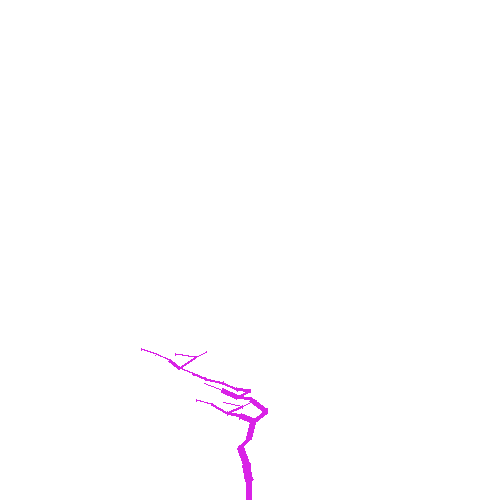
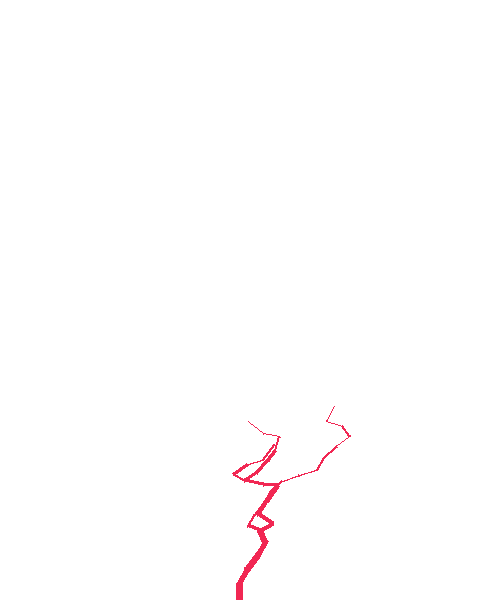
massively updated trunk splitting to add possible types and control over when, where, and how much

diff --git a/auto_draw_tool.py b/auto_draw_tool.py
@@ -5,8 +5,8 @@ import math
 import sys
 
 
-pic_width = 500
-pic_height = 500
+pic_width = 480
+pic_height = 600
 white = (255, 255, 255)
 choco = (210,105,30)
 sienna = (160,82,45)
@@ -58,12 +58,23 @@ def gen_color():
 
 
 # return list of ints that describe continuances or splits on bracnhes/trunks
-def gen_split_list(leftover_trunks):
+def gen_split_list(leftover_trunks,reach_type):
 	splits = []
 	total = 0
 	while total <= leftover_trunks:
 		if total != 0:
-			addition = rand.randint(1,2)
+			# we want more likely 1 for total less than leftover_trunks...
+			# so 1/(left_over - total) goes from 1/L to ... 1 (then infin)..
+			# MAKE THIS SOME HOW OPTIONAL ---> SO BRANCHES CAN BE HIGH ON TREE, FOR A TREE TYPE!!!!
+			# when off, just randint(1,2) once total != 0
+			# when on, first split continues for a bit to make it more "tree-like"
+			if total < leftover_trunks and not reach_type:
+				if rand.random() < .1+1/math.sqrt(leftover_trunks - total):
+					addition = rand.randint(1,2)
+				else:	
+					addition = 1
+			else:
+				addition = rand.randint(1,2)
 		elif total == 0:
 			addition = 2
 		splits.append(addition)
@@ -76,6 +87,12 @@ def gen_split_list(leftover_trunks):
 def gen_trunk(trunk_angle_max,trunk_angle_min,trunk_base_width,trunk_mag,trunk_color,id_index,last_trunk,is_used=True):
 	length = trunk_mag*rand.uniform(.6,1)
 	angle = rand.uniform(trunk_angle_min,trunk_angle_max)
+	# above is naive, we want to avoid straight up mooostly, so bend distribution towards edges, using min and max
+	# but, only do this is pi/2 included in range of max and min! (so we can use this func to do semi specific angle trunk)
+	if math.pi/2 < trunk_angle_max and math.pi/2 > trunk_angle_min:	
+		angle1 = rand.uniform(trunk_angle_min,5*(math.pi)/12)
+		angle2 = rand.uniform(7*(math.pi)/12,trunk_angle_max)
+		angle = rand.choice([angle1,angle2])
 	#first trunk always points straight up
 	if id_index == 0:
 		angle = math.pi/2
@@ -135,10 +152,12 @@ def gen_rules():
 	trunk_num_max = 50
 	trunk_mag = 20
 	trunk_base_width = 1
-	trunk_angle_min = math.pi/4
-	trunk_angle_max = 3*(math.pi/4)
+	trunk_angle_min = math.pi/6 #math.pi/4
+	trunk_angle_max = 5*(math.pi/6) #3*(math.pi/4)
 	repeat_prob = .2						#DONT FORGET THIS!
-	trunk_split_prob = .4
+	trunk_split_prob = .4	# probability to split once minimum trunks generated met
+	trunk_split_factor = 5  # what ratio of trunks need to be met to start splitting (so 2 means 1/2)
+	reach_type = False # set to true if you want to split branches more than spread higher
 	# then branches
 	branch_num_max = 8
 	branch_num_min = 4
@@ -152,7 +171,7 @@ def gen_rules():
 	trunk_num = rand.randint(trunk_num_min,trunk_num_max)
 	for i in range(trunk_num):
 		# decide if splitting --> far enough along and rand chance
-		if id_index > int(trunk_num/6.0) and rand.random() > trunk_split_prob:
+		if id_index > int(trunk_num/trunk_split_factor) and rand.random() > trunk_split_prob:
 			break
 		trunk = gen_trunk(trunk_angle_max,trunk_angle_min,trunk_base_width,trunk_mag,trunk_color,id_index,rules[-1])
 		rules.append(trunk)
@@ -161,19 +180,19 @@ def gen_rules():
 	# possible num_splits = rand.randint(1,int((trunk_num-i)/2))
 	# generate list of branch structure like 1,2,1.. place randomly
 	rules.pop(0)
-	split_list = gen_split_list(trunk_num-i)
+	split_list = gen_split_list(trunk_num-i,reach_type)
 	chosen_trunk = rules[-1]
 	for k in range(len(split_list)):
 		if split_list[k] == 1:
 			chosen_trunk.used = True
-			trunk = gen_trunk(math.pi/8.0 + rand.uniform(0,.4),math.pi/8.0 - rand.uniform(0,.4),trunk_base_width,trunk_mag,trunk_color,id_index,chosen_trunk,False)
+			trunk = gen_trunk(math.pi/(1.1),0,trunk_base_width,trunk_mag,trunk_color,id_index,chosen_trunk,False)
 			rules.append(trunk)
 			id_index = id_index + 1 
 		if split_list[k] == 2:
 			chosen_trunk.used = True
-			trunk_r = gen_trunk(math.pi/8.0 + rand.uniform(0,.4),math.pi/8.0 - rand.uniform(0,.4),trunk_base_width,trunk_mag,trunk_color,id_index,chosen_trunk,False)
+			trunk_r = gen_trunk(math.pi/8.0 + rand.uniform(0,.4),math.pi/8.0 - rand.uniform(0,.3),trunk_base_width,trunk_mag,trunk_color,id_index,chosen_trunk,False)
 			id_index = id_index + 1
-			trunk_l = gen_trunk(7*math.pi/8.0 + rand.uniform(0,.4),7*math.pi/8.0 - rand.uniform(0,.4),trunk_base_width,trunk_mag,trunk_color,id_index,chosen_trunk,False)
+			trunk_l = gen_trunk(7*math.pi/8.0 + rand.uniform(0,.3),7*math.pi/8.0 - rand.uniform(0,.4),trunk_base_width,trunk_mag,trunk_color,id_index,chosen_trunk,False)
 			rules.append(trunk_l)
 			rules.append(trunk_r)
 			id_index = id_index + 1
